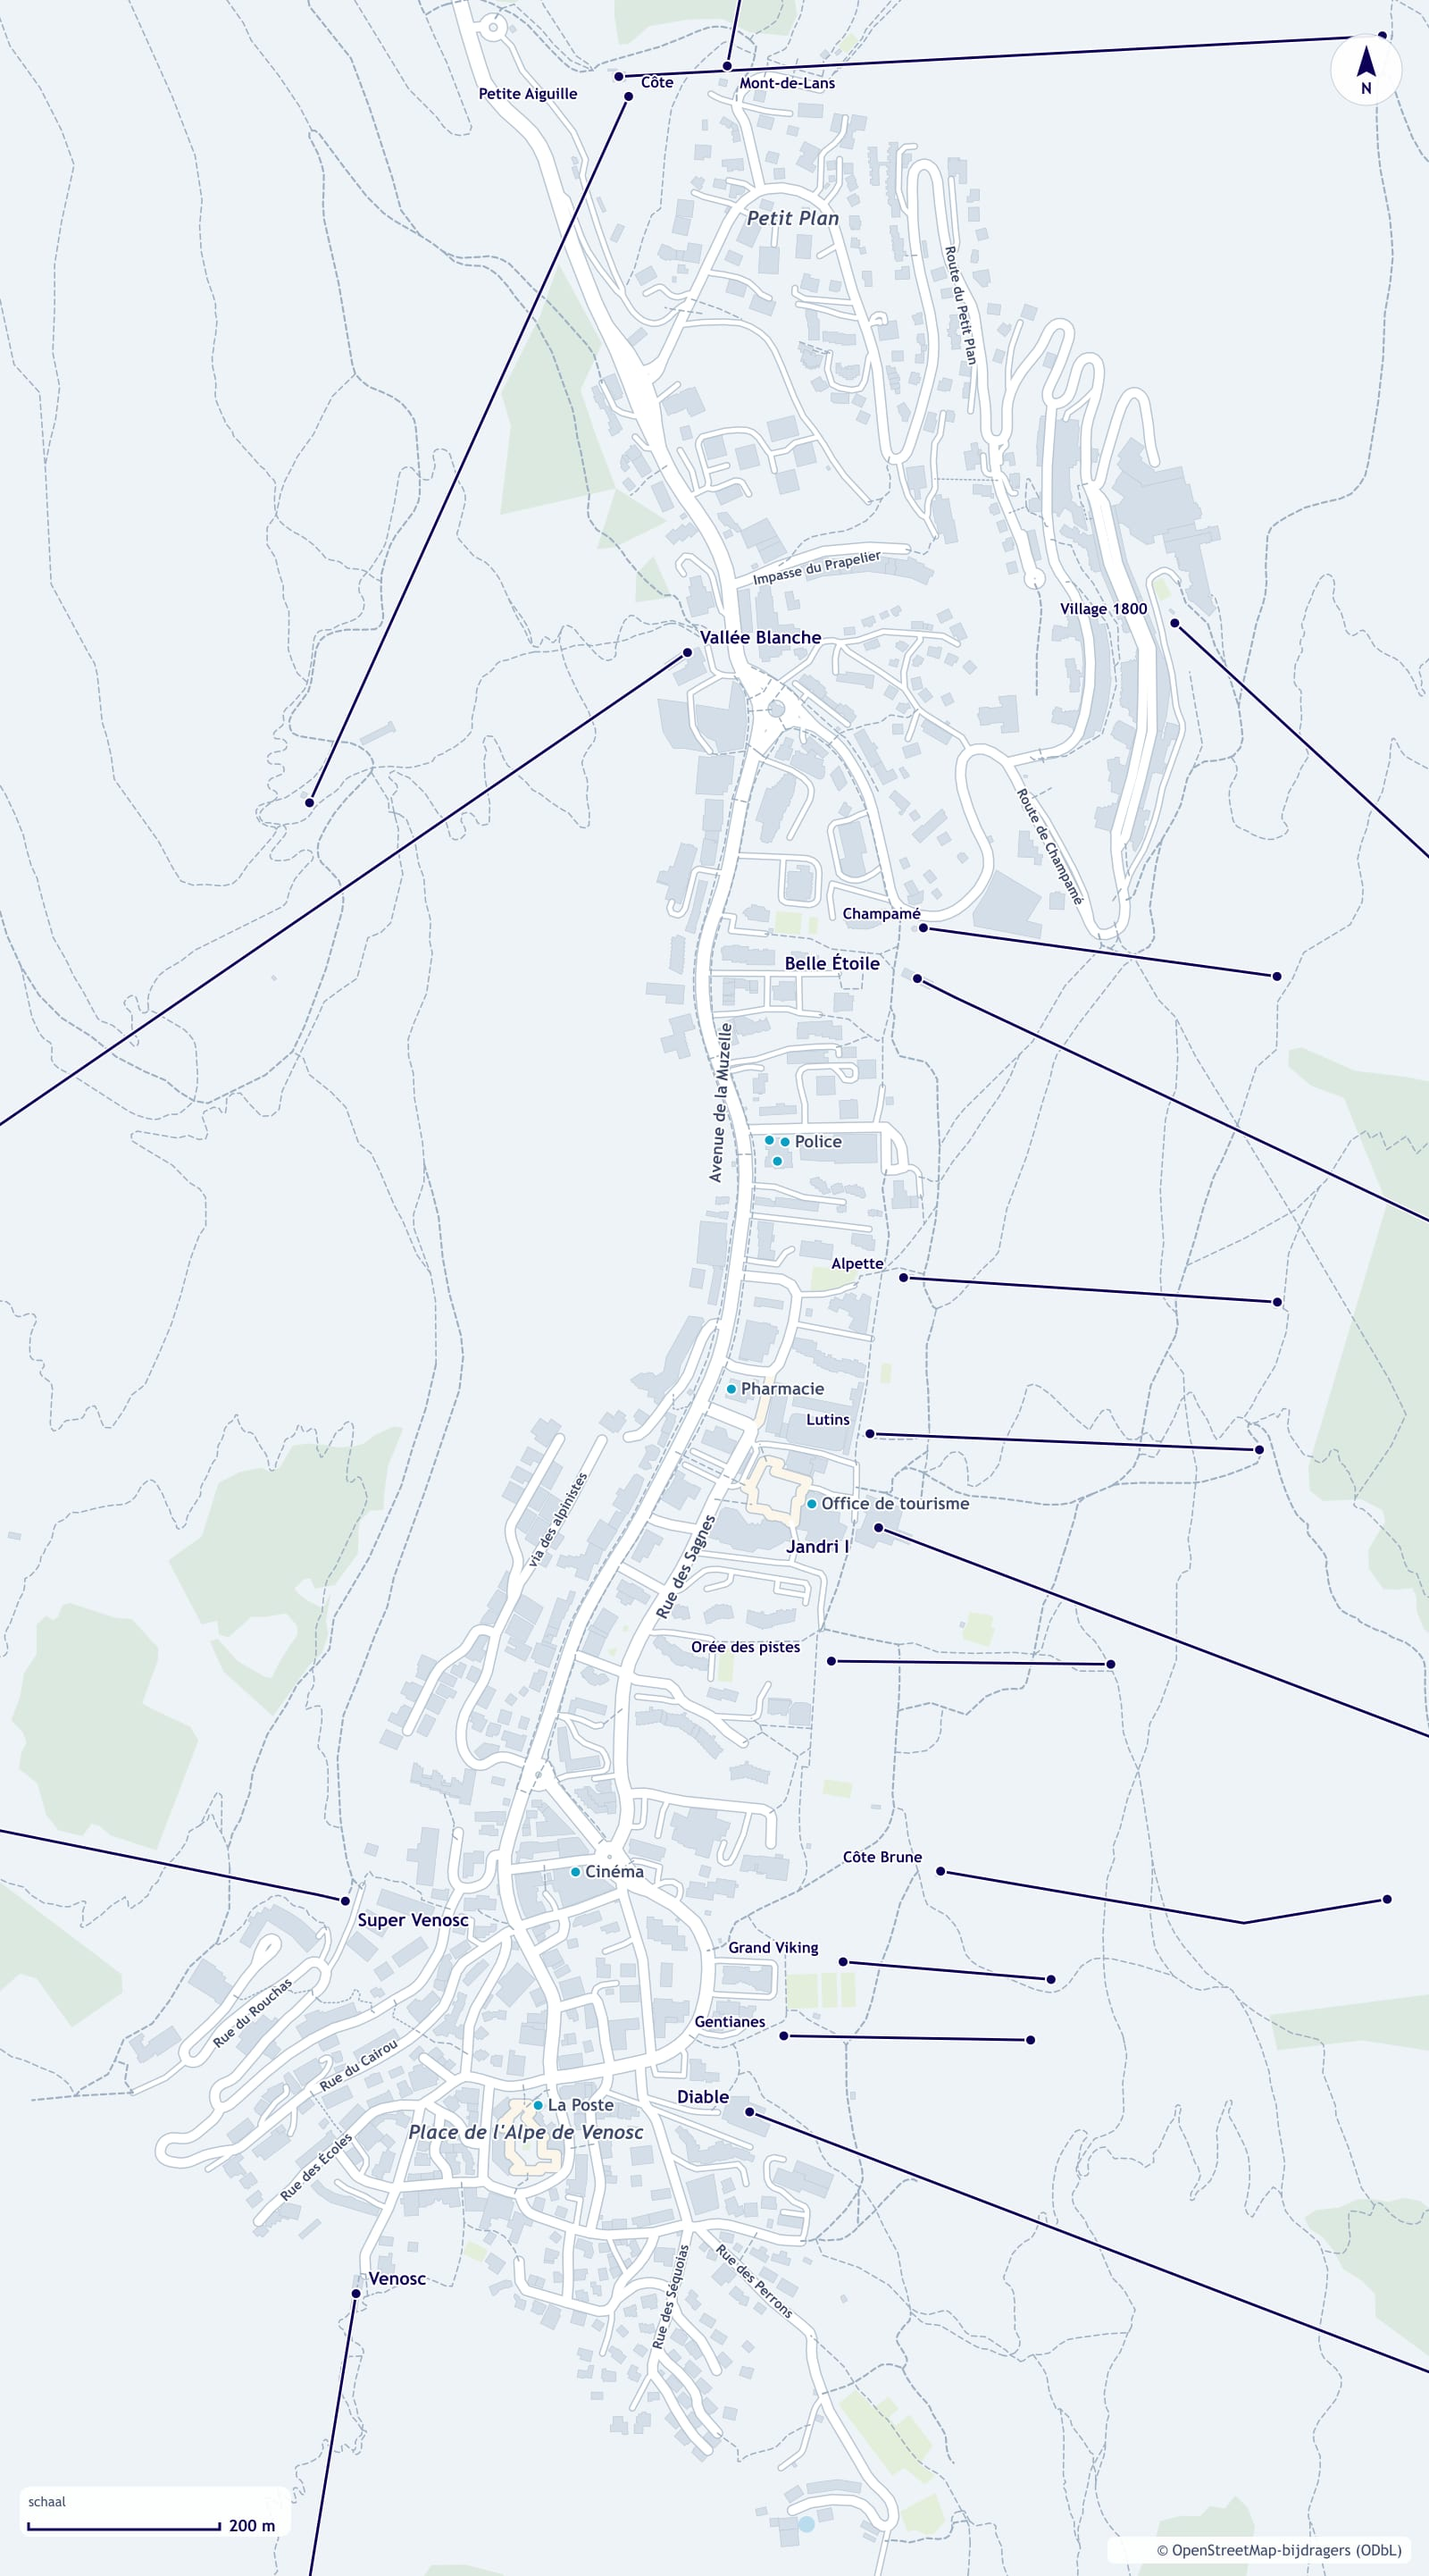
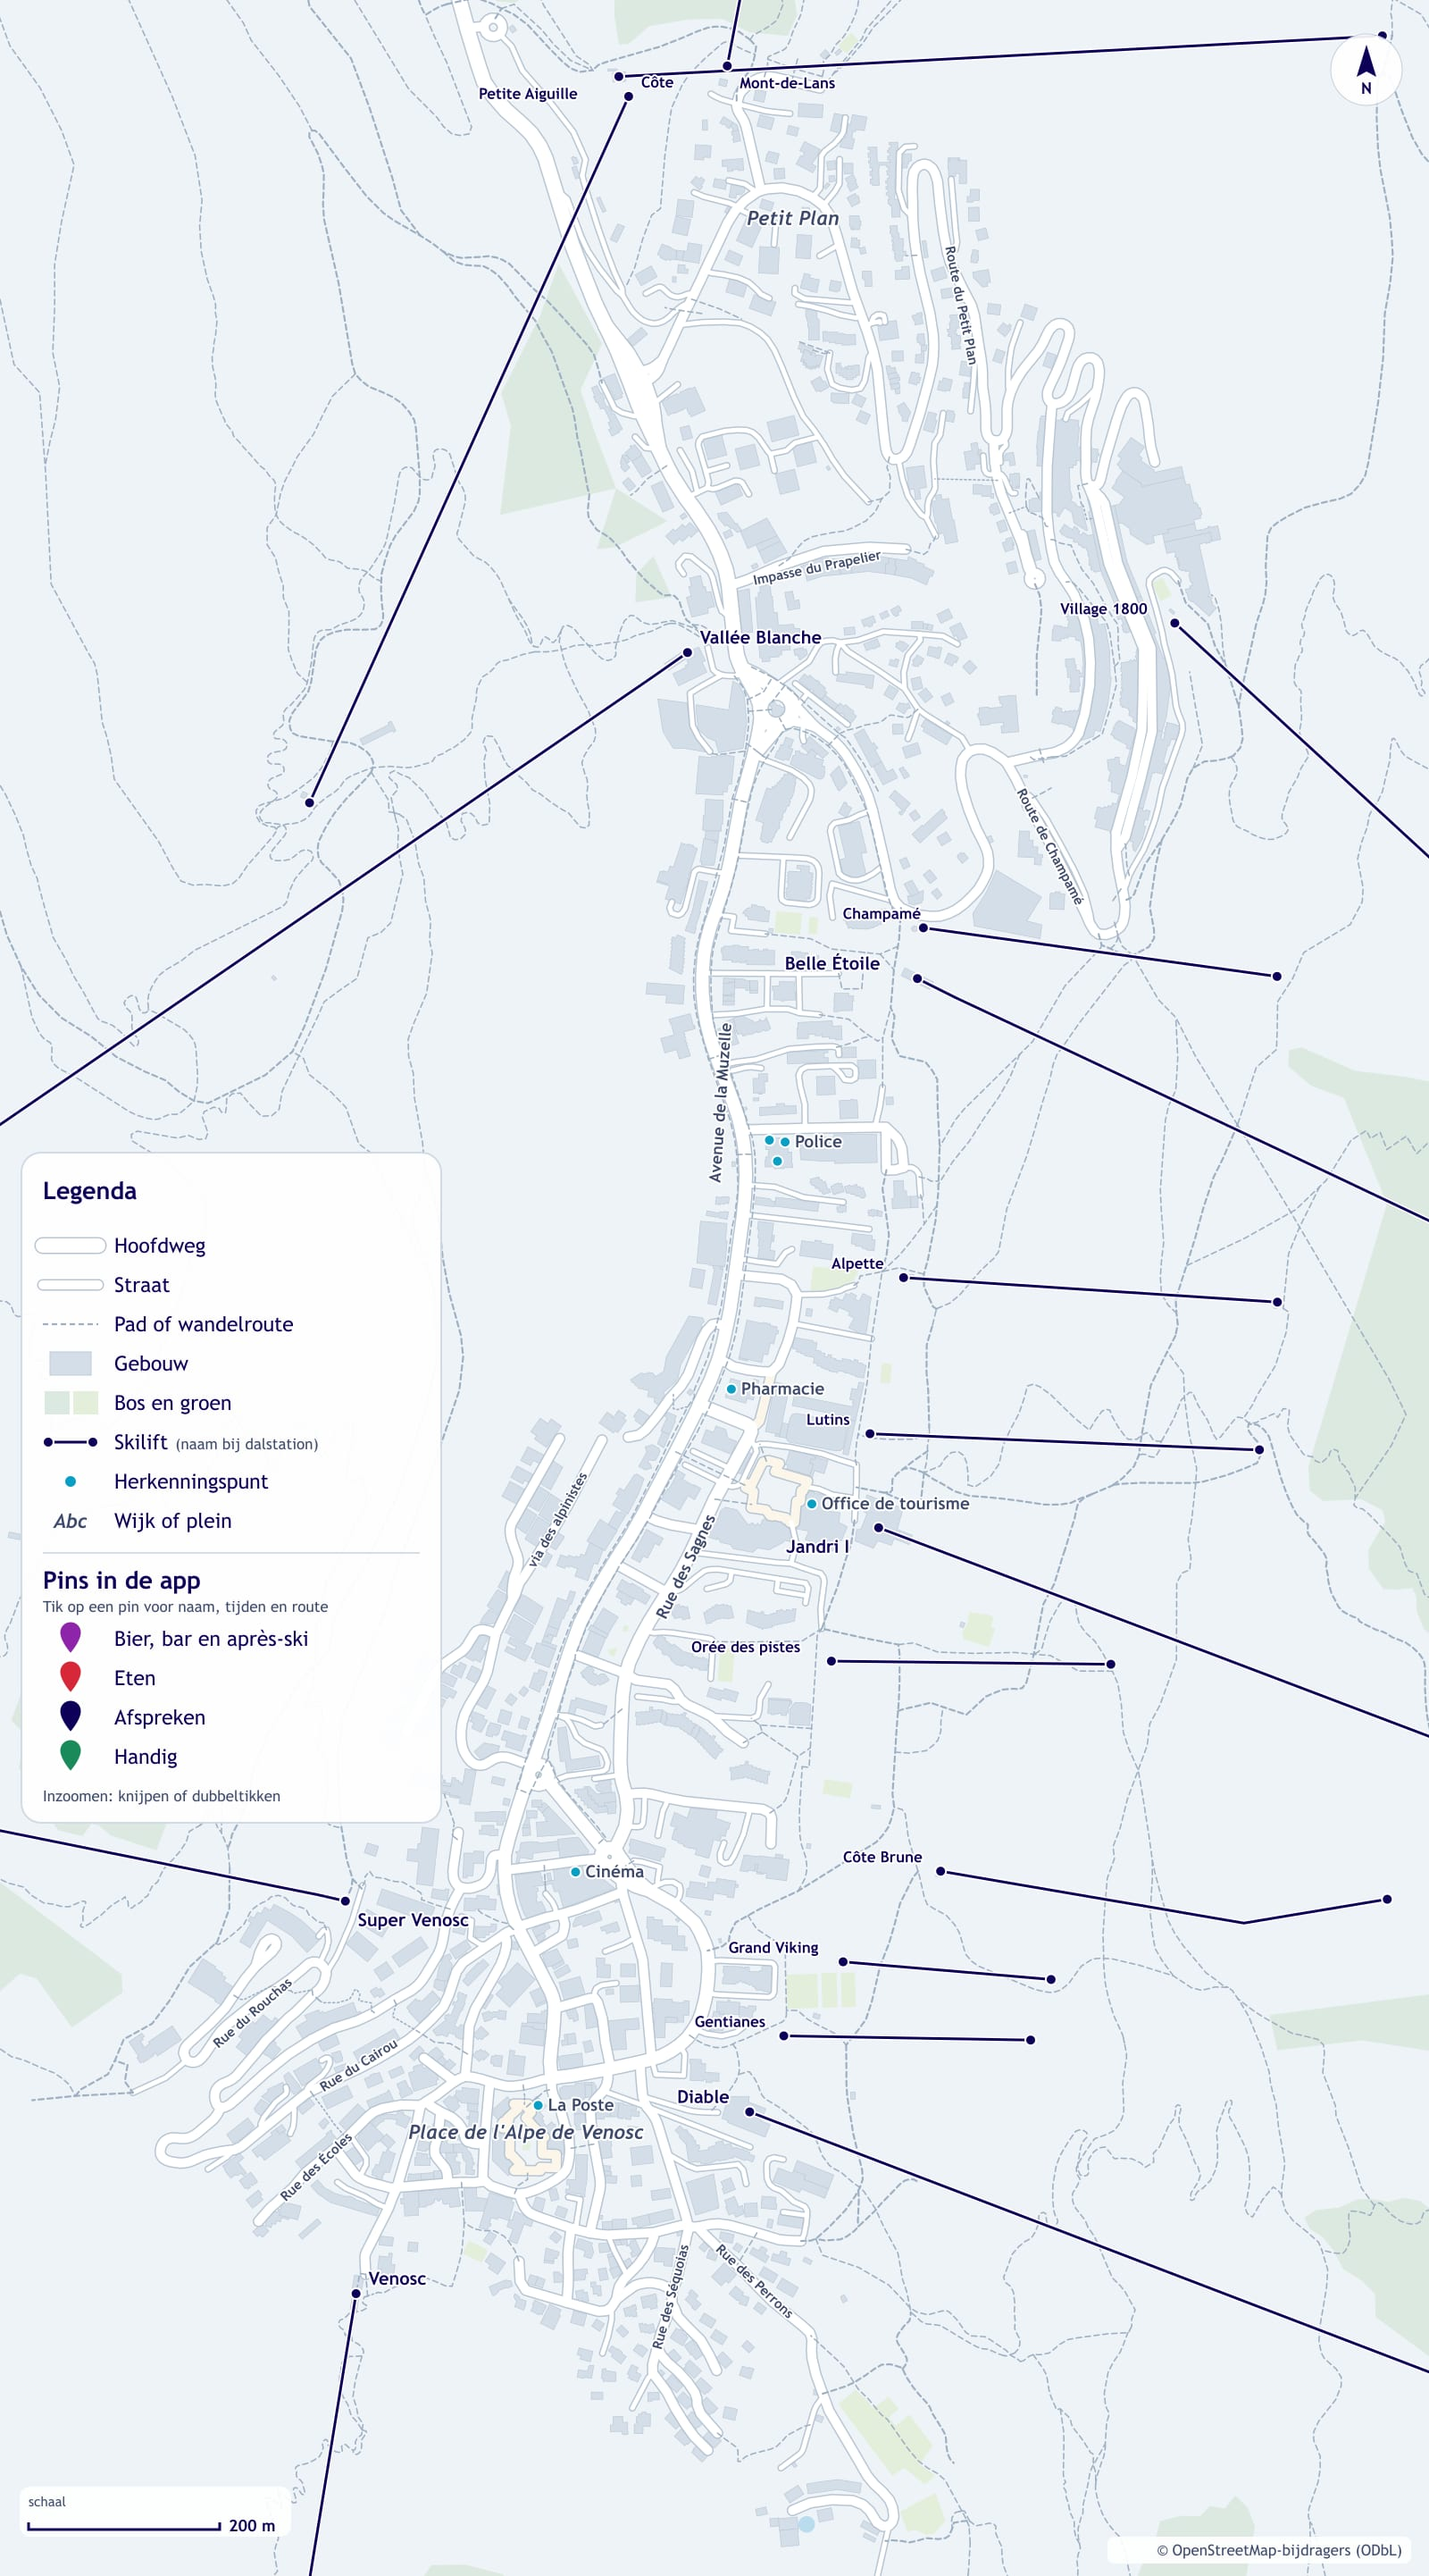
Dorpskaart: legenda op de kaart en 21 bars/pubs/nachtclubs uit OpenStreetMap als pins (npm run bars)

Changed region(s): [[0.0, 0.4683, 0.3125, 0.718], [0.0312, 0.437, 0.0938, 0.4683], [0.2812, 0.4683, 0.3125, 0.4995]]

diff --git a/src/components/ZoomKaart.tsx b/src/components/ZoomKaart.tsx
@@ -12,7 +12,7 @@ interface Stand {
 const SLEEPDREMPEL = 8
 
 export const SOORTEN: Record<PlekSoort, { label: string; icoon: string; kleur: string }> = {
-  apres: { label: 'Après-ski', icoon: '🍻', kleur: '#8e24aa' },
+  apres: { label: 'Bier & après-ski', icoon: '🍻', kleur: '#8e24aa' },
   eten: { label: 'Eten', icoon: '🍽', kleur: '#d62839' },
   afspreek: { label: 'Afspreken', icoon: '🚩', kleur: '#0d0058' },
   handig: { label: 'Handig', icoon: 'ℹ', kleur: '#1b8a5a' },

diff --git a/README.md b/README.md
@@ -83,7 +83,7 @@ Bij het eerste gebruik kiest iedereen zijn naam uit de lijst. Daarna staat zijn 
     "route": "https://maps.google.com/?q=..." }
 ] }
 ```
-- `soort` is `apres` (paars, 🍻), `eten` (rood, 🍽), `afspreek` (donkerblauw, 🚩) of `handig` (groen, ℹ). Elke soort heeft een eigen kleur en icoon, en onderaan de kaart een filterknop.
+- `soort` is `apres` (paars, 🍻, bier, bars en après-ski), `eten` (rood, 🍽), `afspreek` (donkerblauw, 🚩) of `handig` (groen, ℹ). Elke soort heeft een eigen kleur en icoon, en onderaan de kaart een filterknop.
 - `kaart` is `piste` of `dorp`.
 - `x` en `y` zijn **procenten** van de afbeelding: `x` 0 is helemaal links en 100 helemaal rechts, `y` 0 is boven en 100 onder. De punt van de pin staat precies op die plek.
 - `omschrijving`, `tijden` en `route` mag je weglaten. De knop *Route* verschijnt alleen als er een `route` (een webadres, bijvoorbeeld een Google Maps-link) is.
@@ -113,7 +113,9 @@ Vertrektijd, thuiskomst, het openen van het spel en de links naar de Les 2 Alpes
 
 **Dorpskaart:** `public/img/dorpskaart.jpg` is een plattegrond van het dorp, getekend uit **OpenStreetMap**-gegevens in de Tweeslag-stijl: straten met namen, gebouwen, liften (met de naam bij het dalstation), herkenningspunten (toeristenbureau, gemeentehuis, post, apotheek, bioscoop, politie), pleinen, een schaal en een noordpijl. Hij wordt offline bewaard. De vermelding *© OpenStreetMap-bijdragers* staat op de kaart en in de app; die is verplicht (licentie ODbL), laat hem staan.
 
-- **Opnieuw maken** (bijvoorbeeld als OpenStreetMap is bijgewerkt): `npm run dorpskaart`. Het script `scripts/dorpskaart/teken.mjs` haalt de gegevens één keer op via de Overpass-API (bewaard in `scripts/dorpskaart/osm.json`), tekent de kaart en schrijft `public/img/dorpskaart.jpg`. Met `--opnieuw` haalt het verse gegevens op. Kleuren, het kader en welke herkenningspunten erop staan, pas je bovenin het script aan.
+- **Legenda:** links op de kaart staat een legenda met de symbolen (hoofdweg, straat, pad, gebouw, bos en groen, skilift, herkenningspunt, wijk of plein) en de kleuren van de pins in de app. Zoom in om hem te lezen.
+- **Bier drinken:** alle bars, pubs en nachtclubs uit OpenStreetMap (nu 21) staan als paarse pin (*Bier & après-ski*) op de dorpskaart, met hun echte naam en een knop *Route* naar Google Maps. Ze komen uit `npm run bars` (script `scripts/dorpskaart/bars.mjs`): dat zet ze in `plekken.json` met een id die begint met `osm-` en vervangt bij opnieuw draaien alleen die plekken. Bars in hetzelfde gebouw schuift het een paar meter uit elkaar, zodat je ze ingezoomd allebei kunt aantikken. Openingstijden staan er alleen bij als OpenStreetMap ze kent; controleer ter plekke. Wil je een bar niet op de kaart, haal hem dan uit `plekken.json`; draai `npm run bars` daarna niet opnieuw, want dan komt hij terug.
+- **Opnieuw maken** (bijvoorbeeld als OpenStreetMap is bijgewerkt): `npm run dorpskaart` en daarna `npm run bars`. Het script `scripts/dorpskaart/teken.mjs` haalt de gegevens één keer op via de Overpass-API (bewaard in `scripts/dorpskaart/osm.json`), tekent de kaart en schrijft `public/img/dorpskaart.jpg`. Met `--opnieuw` haalt het verse gegevens op. Kleuren, het kader en welke herkenningspunten erop staan, pas je bovenin het script aan.
 - **Eigen plattegrond gebruiken?** Vervang `dorpskaart.jpg` door een andere afbeelding met dezelfde naam. Controleer daarna de `x`/`y` van de plekken op de dorpskaart met de plaatsmodus: de posities zijn procenten van de afbeelding, dus bij een andere kaart liggen ze ergens anders. Dat geldt ook als je het kader in het script aanpast.
 
 **Logo / app-icoon:** het app-icoon (`public/logo.svg`) en het woordmerk bovenaan Home (`public/img/2slag-wit.svg`) zijn winterversies van het officiële 2slag-logo uit de huisstijl, met sneeuw op de letters, sneeuwvlokken en besneeuwde bergen. Een ander icoon? Vervang `public/logo.svg` (vierkant). Bij elke build worden daaruit automatisch de app-iconen, de favicon en de splashscreens voor iPhone gemaakt. De achtergrondkleur en de ruimte rond het logo stel je in met `ACHTERGROND` en `padding` in `pwa-assets.config.ts`. Heeft je logo een transparante achtergrond, zet dan bij `transparent` de `padding` op bijvoorbeeld `0.1`. Heb je alleen een PNG, zet dan in `pwa-assets.config.ts` `images: ['public/logo.png']` en pas in `index.html` en `src/screens/Home.tsx` `logo.svg` aan naar `logo.png`.
